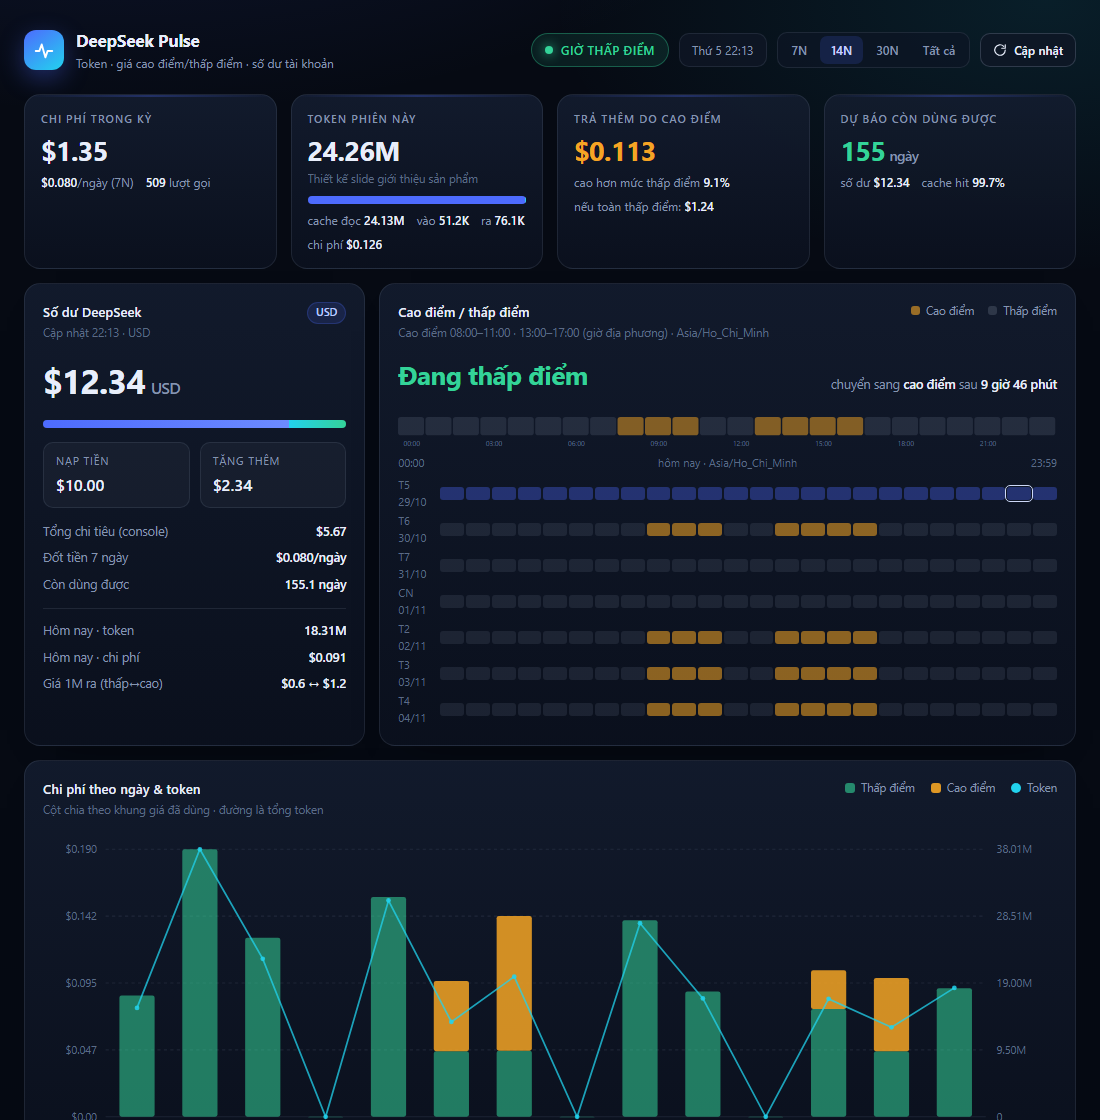
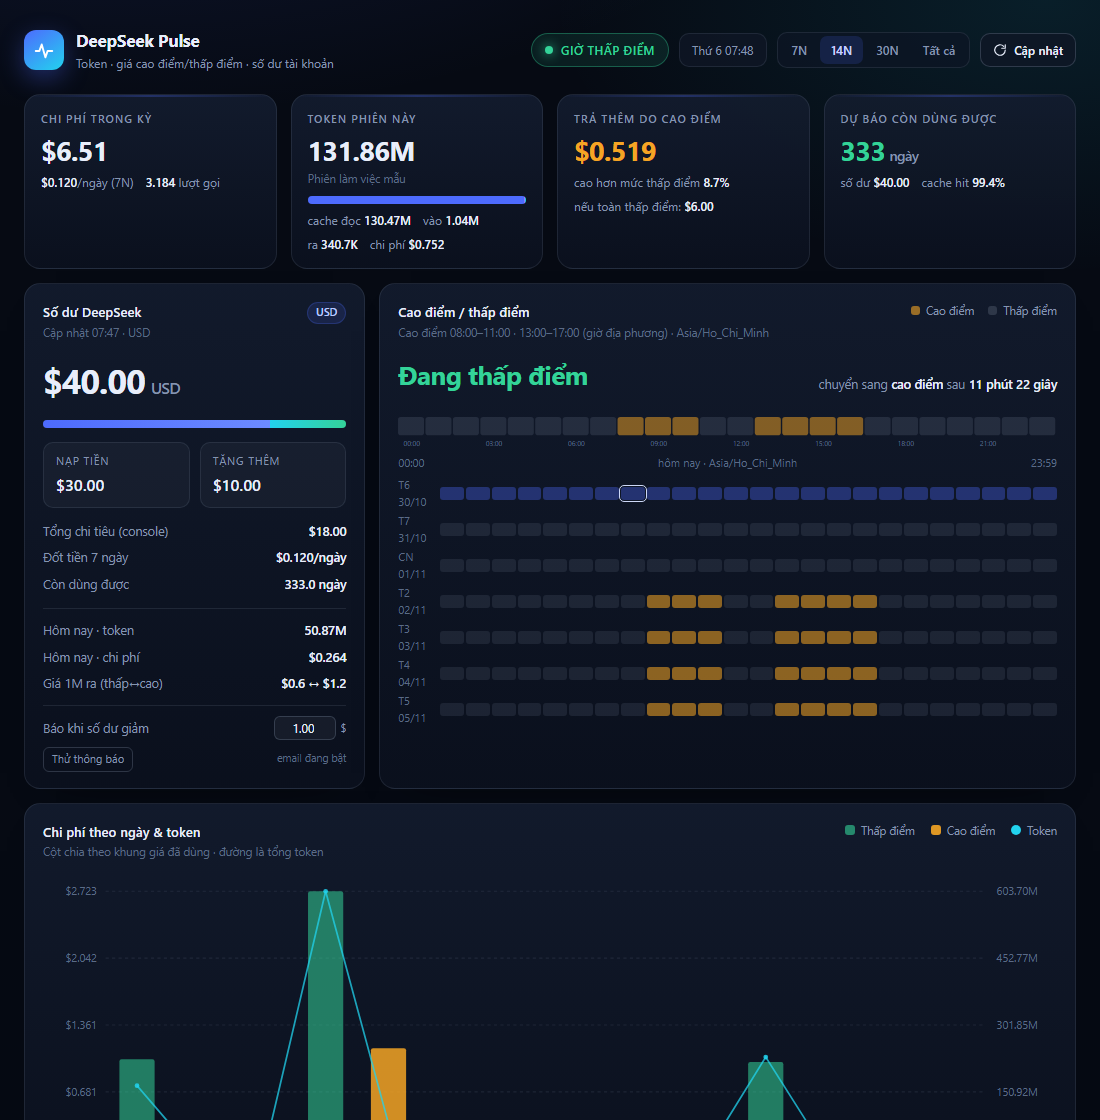
Anh docs dung du lieu mau: khong lo so du, chi phi console va ten phien

diff --git a/tools/demo-page.html b/tools/demo-page.html
@@ -1,0 +1,69 @@
+<!doctype html>
+<!--
+  Screenshot page for docs/ — never shipped to users.
+
+  Usage:
+    Copy-Item .\tools\demo-page.html .\public\_demo.html
+    $env:PULSE_URL = "http://127.0.0.1:4577/_demo.html"
+    $env:CLIP = "0,0,1440,1520"; node tools/preview.mjs 1440 900 docs/screenshot.png
+    Remove-Item .\public\_demo.html
+
+  It fetches real data (so the charts look natural) and then replaces the
+  account fields — balance, spend, session titles — with sample values, so a
+  screenshot can never leak a real balance or the user's session names.
+-->
+<html lang="vi">
+  <head>
+    <meta charset="utf-8" />
+    <meta name="viewport" content="width=device-width, initial-scale=1" />
+    <meta name="color-scheme" content="dark" />
+    <title>DeepSeek Pulse — ảnh minh hoạ (dữ liệu mẫu)</title>
+    <link rel="icon" href="favicon.svg" type="image/svg+xml" />
+    <link rel="stylesheet" href="style.css" />
+  </head>
+  <body>
+    <main class="app" id="app">
+      <div class="empty">Đang tải dữ liệu…</div>
+    </main>
+    <noscript>Bảng điều khiển này cần JavaScript để vẽ biểu đồ.</noscript>
+    <script>
+      (() => {
+        const realFetch = window.fetch.bind(window);
+        const sample = { total: 40, top: 30, bonus: 10, lifetime: 18, daily: 0.12, runway: 333 };
+        window.fetch = async (input, init) => {
+          const url = typeof input === 'string' ? input : (input && input.url) || '';
+          if (url.includes('api/alerts') && !url.includes('api/overview')) {
+            return new Response(
+              JSON.stringify({ enabled: true, configured: true, dropAmount: 1, source: 'demo' }),
+              { status: 200, headers: { 'content-type': 'application/json' } },
+            );
+          }
+          const response = await realFetch(input, init);
+          if (!url.includes('api/overview') || !response.ok) return response;
+          const data = await response.json();
+          data.balance = {
+            ...(data.balance || {}),
+            connected: true,
+            currency: 'USD',
+            total: sample.total,
+            toppedUp: sample.top,
+            bonus: sample.bonus,
+            toppedUpWallets: [{ currency: 'USD', amount: sample.top }],
+            bonusWallets: [{ currency: 'USD', amount: sample.bonus }],
+            lifetimeCost: [{ currency: 'USD', amount: sample.lifetime }],
+          };
+          if (data.currentSession) data.currentSession.title = 'Phiên làm việc mẫu';
+          if (Array.isArray(data.sessions)) {
+            data.sessions = data.sessions.map((session, index) => ({ ...session, title: `Phiên mẫu ${index + 1}` }));
+          }
+          data.burn = { ...(data.burn || {}), dailyCost: sample.daily, runwayDays: sample.runway };
+          return new Response(JSON.stringify(data), {
+            status: 200,
+            headers: { 'content-type': 'application/json' },
+          });
+        };
+      })();
+    </script>
+    <script type="module" src="app.js"></script>
+  </body>
+</html>

diff --git a/README.md b/README.md
@@ -288,7 +288,16 @@ USD / 1M token. Công thức: `(cacheRead × hit + (input + cacheWrite) × miss 
 
 ```powershell
 node tools/preview.mjs 1440 2400 docs/preview.png
-$env:PULSE_URL = "http://127.0.0.1:19387/pulse/?embed=1"; node tools/preview.mjs 1280 1400 docs/panel.png
+```
+
+Ảnh trong `docs/` được chụp qua `tools/demo-page.html` — trang này lấy dữ liệu thật nhưng **thay số dư, chi phí console và tên phiên bằng giá trị mẫu**, nên ảnh công khai không lộ tài khoản:
+
+```powershell
+Copy-Item .\tools\demo-page.html .\public\_demo.html
+$env:PULSE_URL = "http://127.0.0.1:4577/_demo.html"
+$env:CLIP = "0,0,1440,1520"; node tools/preview.mjs 1440 900 docs/screenshot.png
+$env:CLIP = "0,0,1100,1120"; node tools/preview.mjs 1100 900 docs/panel.png
+Remove-Item .\public\_demo.html
 ```
 
 `tools/` không nằm trong gói plugin (`files` chỉ gồm `lib`, `public`, `config.json`, `cordis.patch.yml`).

diff --git a/PUBLISH.md b/PUBLISH.md
@@ -82,5 +82,5 @@ Cập nhật về sau: commit + push, người dùng chạy lại `install_bundl
 - [ ] Đã điền tên trong `LICENSE`
 - [ ] `package.json` không còn `private: true` (đã bỏ sẵn)
 - [ ] Không có đường dẫn tuyệt đối của riêng bạn trong README/`config.json`
-- [ ] `docs/*.png` là ảnh bạn muốn công khai (có tên phiên làm việc trong bảng — cân nhắc che nếu cần)
+- [ ] `docs/*.png` là ảnh bạn muốn công khai — bản hiện tại render qua `tools/demo-page.html` (số dư, chi phí console, tên phiên đã thay bằng dữ liệu mẫu); chụp lại thì dùng lại trang đó thay vì dữ liệu thật.
 - [ ] `node server.mjs` vẫn chạy được từ thư mục này
